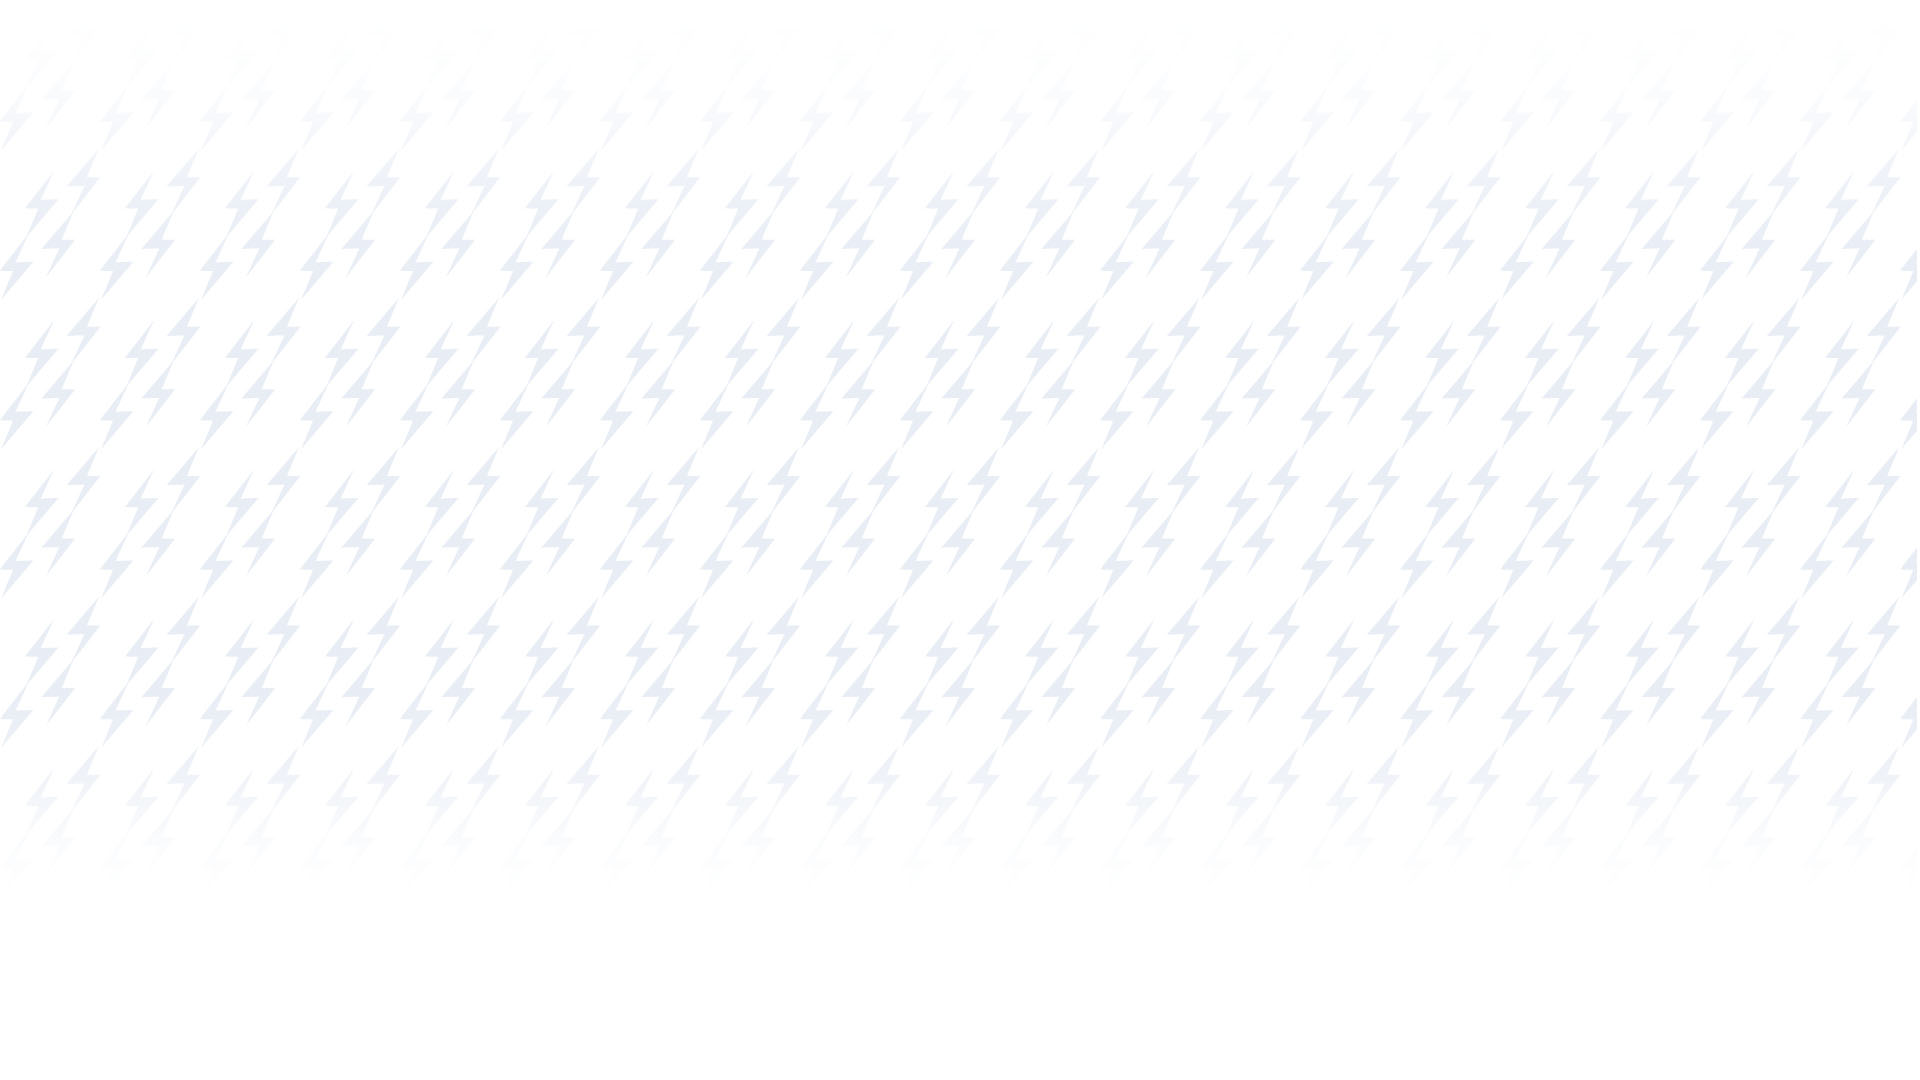
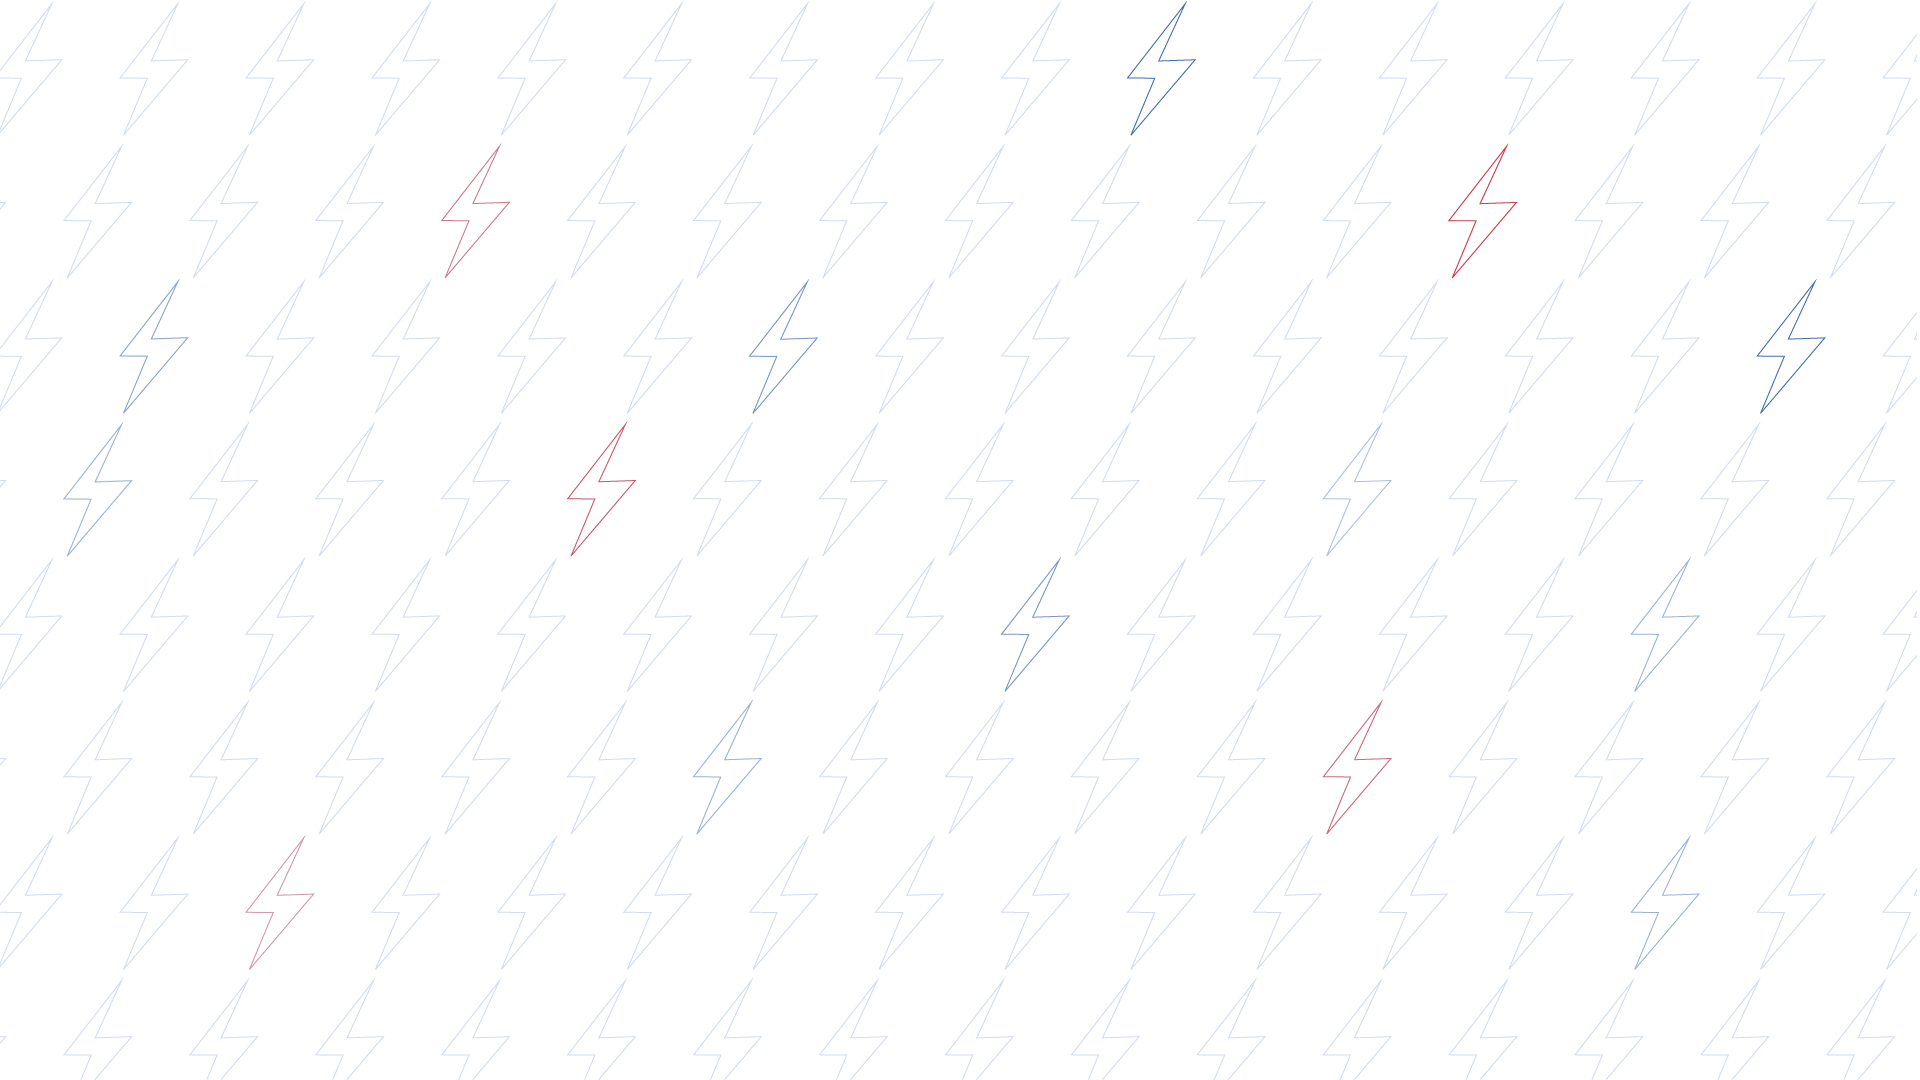
updated backgrounds & lines (v3.5.2)

Changed region(s): [[0.9062, 0.3056, 0.9375, 0.3361], [0.0625, 0.3056, 0.0938, 0.3361]]

diff --git a/src/components/ContactUs.jsx b/src/components/ContactUs.jsx
@@ -52,13 +52,13 @@ const Contacts = ({ homeRef }) => {
 
   return (
     <div
-      className="mt-20 tracking-wide min-h-[300px] bg-cover  px-3 "
+      className="mt-20 tracking-wide min-h-[300px] bg-cover  px-0 "
       style={{
         backgroundImage: `url(${backgroundImage})`,
       }}
     >
       {/* Separate div for the border above remove max-w-4xl mx-auto for the line to extend*/}
-      <div className="border-t-1 border-red-600 max-w-4xl mx-auto "></div>
+      <div className="border-t-1 border-red-600"></div>
       <div
         className="tracking-wide border-blue-600"
         onContextMenu={(e) => e.preventDefault()} // Disable right-click
@@ -114,11 +114,11 @@ const Contacts = ({ homeRef }) => {
       </div>
 
       <h2 className="flex flex-col items-center gap-2 pt-12 text-5xl tracking-wide text-center bg-gradient-to-b from-white-50 to-transparent">
-        <h2 className="text-4xl tracking-widest text-center sm:text-5xl lg:text-4xl  text-transparent bg-linear-to-r from-zinc-900 to-zinc-950 bg-clip-text">
-          CONTACT US
+        <h2 className="text-4xl tracking-widest text-center sm:text-5xl lg:text-5xl  text-transparent bg-linear-to-r from-zinc-900 to-zinc-950 bg-clip-text">
+          CONTACT
         </h2>
         <h6 className="flex gap-2 text-sm text-blue-600">
-          Email - meterelectrical@gmail.com
+          meterelectrical@gmail.com
         </h6>
 
         <a

diff --git a/src/components/Navbar.jsx b/src/components/Navbar.jsx
@@ -116,7 +116,7 @@ const Navbar = ({ homeRef, servicesRef, projectsRef, contactRef }) => {
         </a>
       </div>
 
-      <div className="relative p-1 mx-auto bg-blue-600 lg:text-sm"></div>
+      <div className="relative p-0.75 mx-auto bg-blue-600 lg:text-sm"></div>
     </nav>
   );
 };

diff --git a/README.md b/README.md
@@ -1,4 +1,4 @@
-⚡ Meter Electric Landing Page (v3.5.1)
+⚡ Meter Electric Landing Page (v3.5.2)
 
 🚀 Features
 
